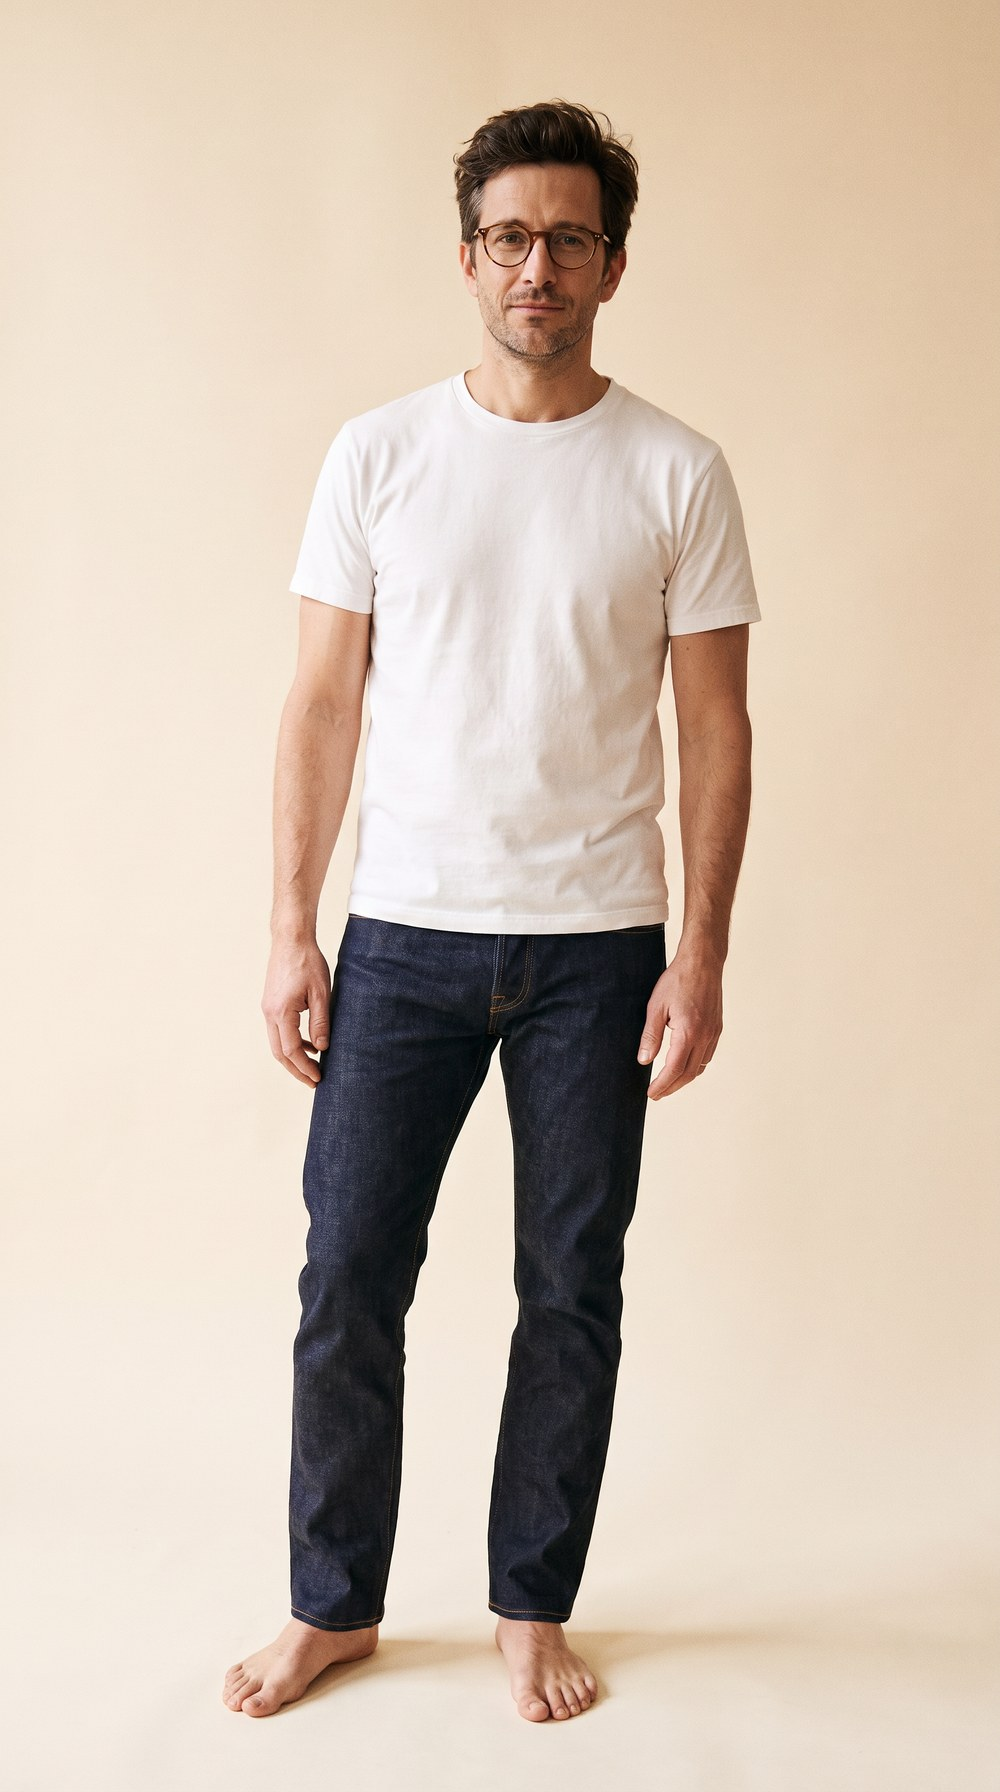
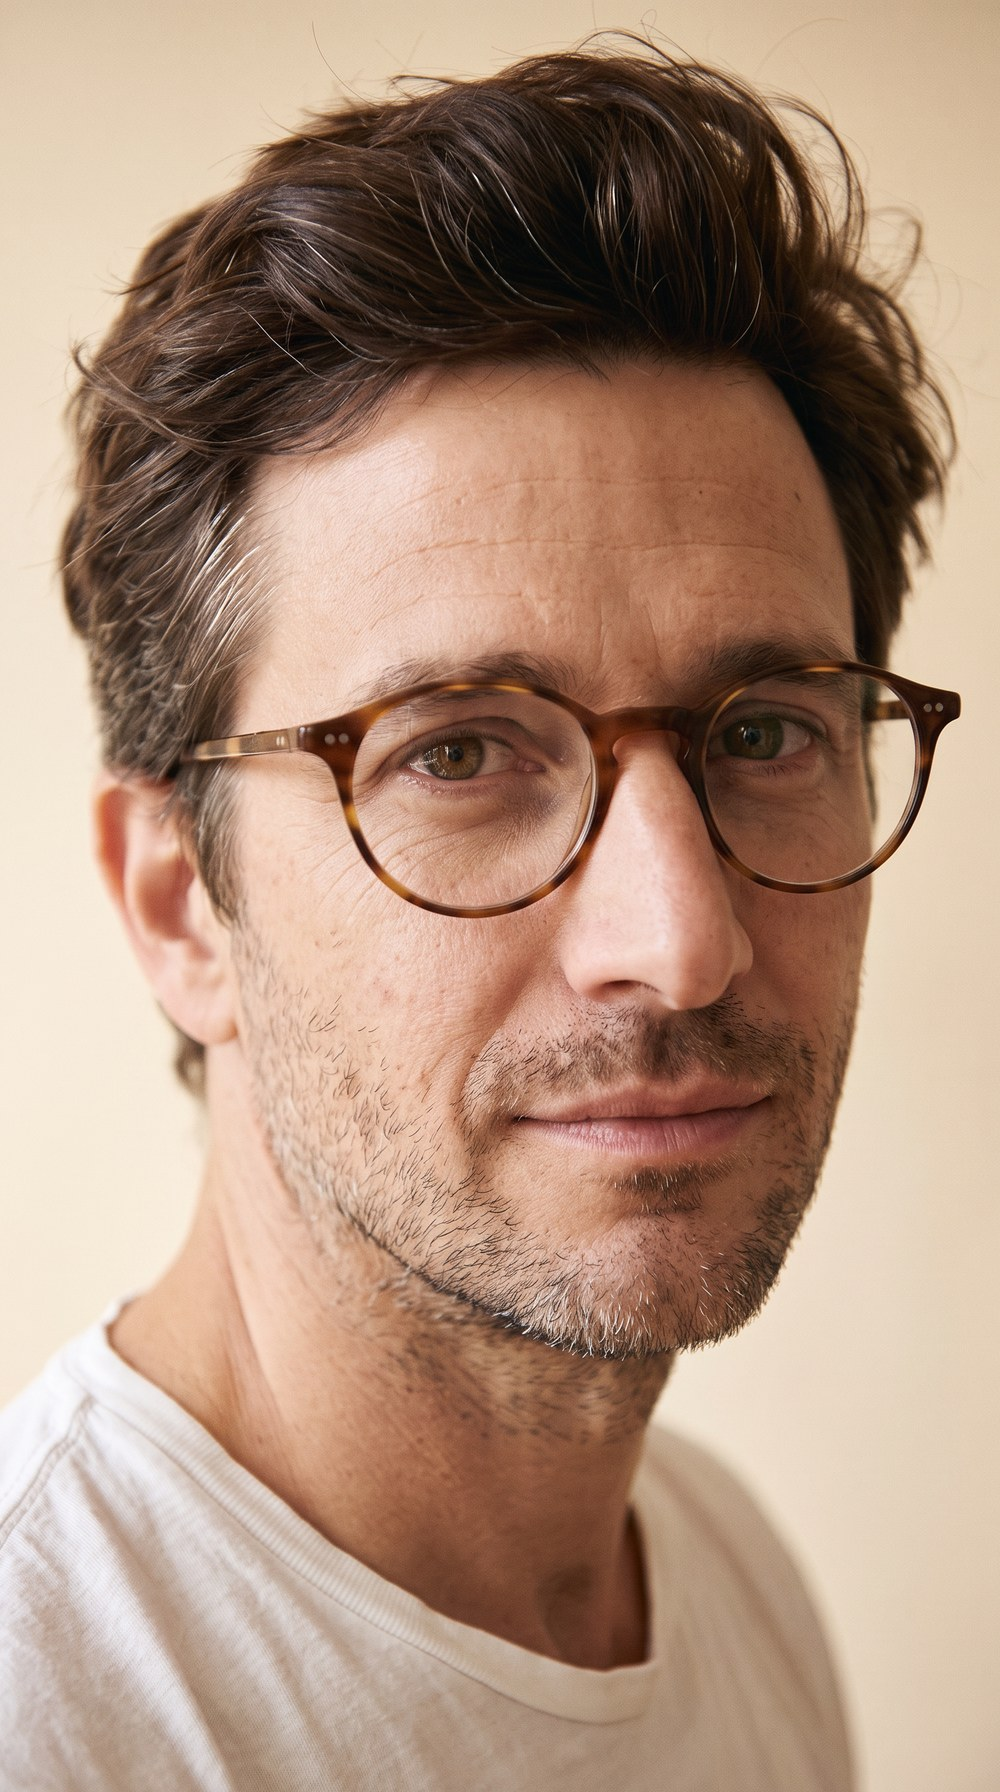
Paul : remet les visuels 3 à 5 dans l'ordre d'origine

diff --git a/modele/paul.html b/modele/paul.html
@@ -36,14 +36,14 @@
       </div>
       <h2 class="book-sec">Le book</h2>
       <div class="ed-board">
-        <div class="ed-item"><img src="../assets/models/paul/cast-01.jpg?v=20261015b" data-lightbox="true" loading="lazy" decoding="async" alt="Paul — mannequin numérique Molto Bene"/><span class="ia-mark" aria-label="Visuel généré par IA">IA</span></div>
-        <div class="ed-item"><img src="../assets/models/paul/cast-02.jpg?v=20261015b" data-lightbox="true" loading="lazy" decoding="async" alt="Paul — mannequin numérique Molto Bene"/><span class="ia-mark" aria-label="Visuel généré par IA">IA</span></div>
-        <div class="ed-item"><img src="../assets/models/paul/cast-03.jpg?v=20261015b" data-lightbox="true" loading="lazy" decoding="async" alt="Paul — mannequin numérique Molto Bene"/><span class="ia-mark" aria-label="Visuel généré par IA">IA</span></div>
-        <div class="ed-item"><img src="../assets/models/paul/cast-04.jpg?v=20261015b" data-lightbox="true" loading="lazy" decoding="async" alt="Paul — mannequin numérique Molto Bene"/><span class="ia-mark" aria-label="Visuel généré par IA">IA</span></div>
-        <div class="ed-item"><img src="../assets/models/paul/cast-05.jpg?v=20261015b" data-lightbox="true" loading="lazy" decoding="async" alt="Paul — mannequin numérique Molto Bene"/><span class="ia-mark" aria-label="Visuel généré par IA">IA</span></div>
-        <div class="ed-item"><img src="../assets/models/paul/cast-06.jpg?v=20261015b" data-lightbox="true" loading="lazy" decoding="async" alt="Paul — mannequin numérique Molto Bene"/><span class="ia-mark" aria-label="Visuel généré par IA">IA</span></div>
-        <div class="ed-item"><img src="../assets/models/paul/cast-07.jpg?v=20261015b" data-lightbox="true" loading="lazy" decoding="async" alt="Paul — mannequin numérique Molto Bene"/><span class="ia-mark" aria-label="Visuel généré par IA">IA</span></div>
-        <div class="ed-item"><img src="../assets/models/paul/cast-08.jpg?v=20261015b" data-lightbox="true" loading="lazy" decoding="async" alt="Paul — mannequin numérique Molto Bene"/><span class="ia-mark" aria-label="Visuel généré par IA">IA</span></div>
+        <div class="ed-item"><img src="../assets/models/paul/cast-01.jpg?v=20261015c" data-lightbox="true" loading="lazy" decoding="async" alt="Paul — mannequin numérique Molto Bene"/><span class="ia-mark" aria-label="Visuel généré par IA">IA</span></div>
+        <div class="ed-item"><img src="../assets/models/paul/cast-02.jpg?v=20261015c" data-lightbox="true" loading="lazy" decoding="async" alt="Paul — mannequin numérique Molto Bene"/><span class="ia-mark" aria-label="Visuel généré par IA">IA</span></div>
+        <div class="ed-item"><img src="../assets/models/paul/cast-03.jpg?v=20261015c" data-lightbox="true" loading="lazy" decoding="async" alt="Paul — mannequin numérique Molto Bene"/><span class="ia-mark" aria-label="Visuel généré par IA">IA</span></div>
+        <div class="ed-item"><img src="../assets/models/paul/cast-04.jpg?v=20261015c" data-lightbox="true" loading="lazy" decoding="async" alt="Paul — mannequin numérique Molto Bene"/><span class="ia-mark" aria-label="Visuel généré par IA">IA</span></div>
+        <div class="ed-item"><img src="../assets/models/paul/cast-05.jpg?v=20261015c" data-lightbox="true" loading="lazy" decoding="async" alt="Paul — mannequin numérique Molto Bene"/><span class="ia-mark" aria-label="Visuel généré par IA">IA</span></div>
+        <div class="ed-item"><img src="../assets/models/paul/cast-06.jpg?v=20261015c" data-lightbox="true" loading="lazy" decoding="async" alt="Paul — mannequin numérique Molto Bene"/><span class="ia-mark" aria-label="Visuel généré par IA">IA</span></div>
+        <div class="ed-item"><img src="../assets/models/paul/cast-07.jpg?v=20261015c" data-lightbox="true" loading="lazy" decoding="async" alt="Paul — mannequin numérique Molto Bene"/><span class="ia-mark" aria-label="Visuel généré par IA">IA</span></div>
+        <div class="ed-item"><img src="../assets/models/paul/cast-08.jpg?v=20261015c" data-lightbox="true" loading="lazy" decoding="async" alt="Paul — mannequin numérique Molto Bene"/><span class="ia-mark" aria-label="Visuel généré par IA">IA</span></div>
       </div>
     </div>
   </section>
